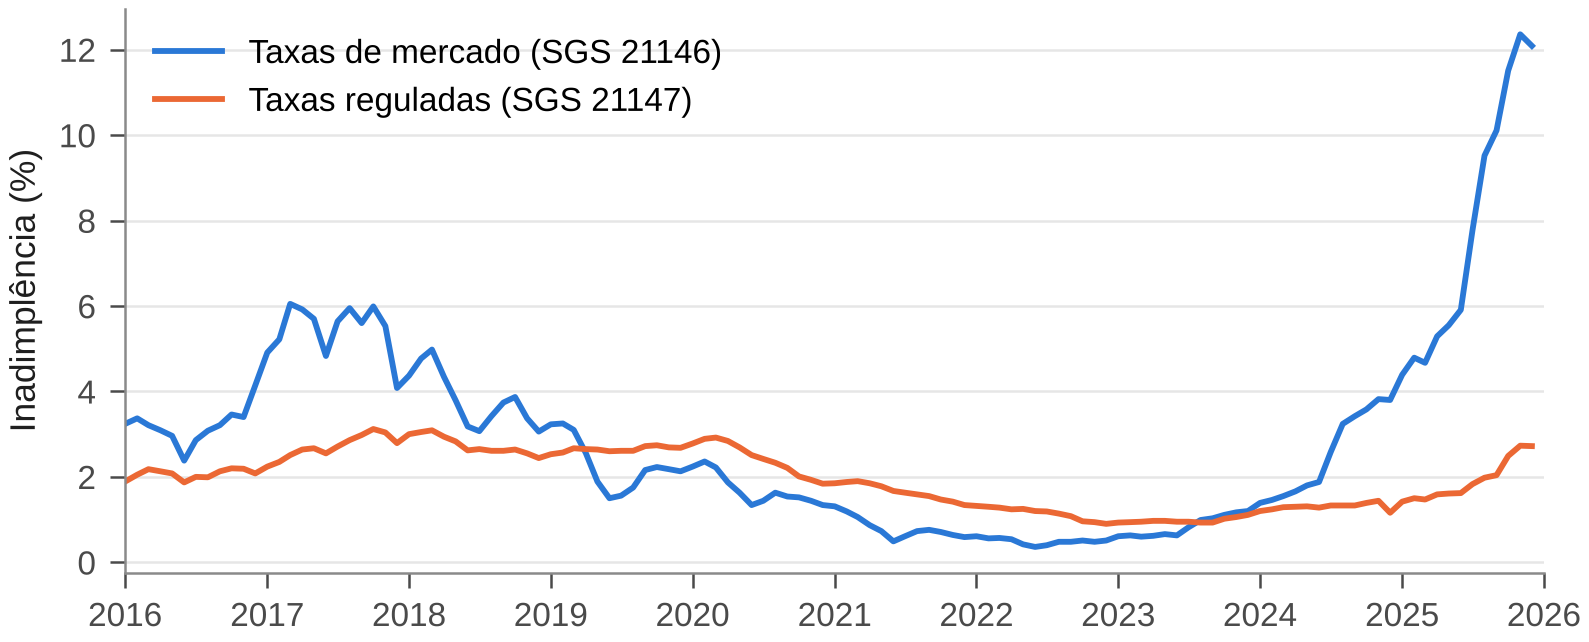
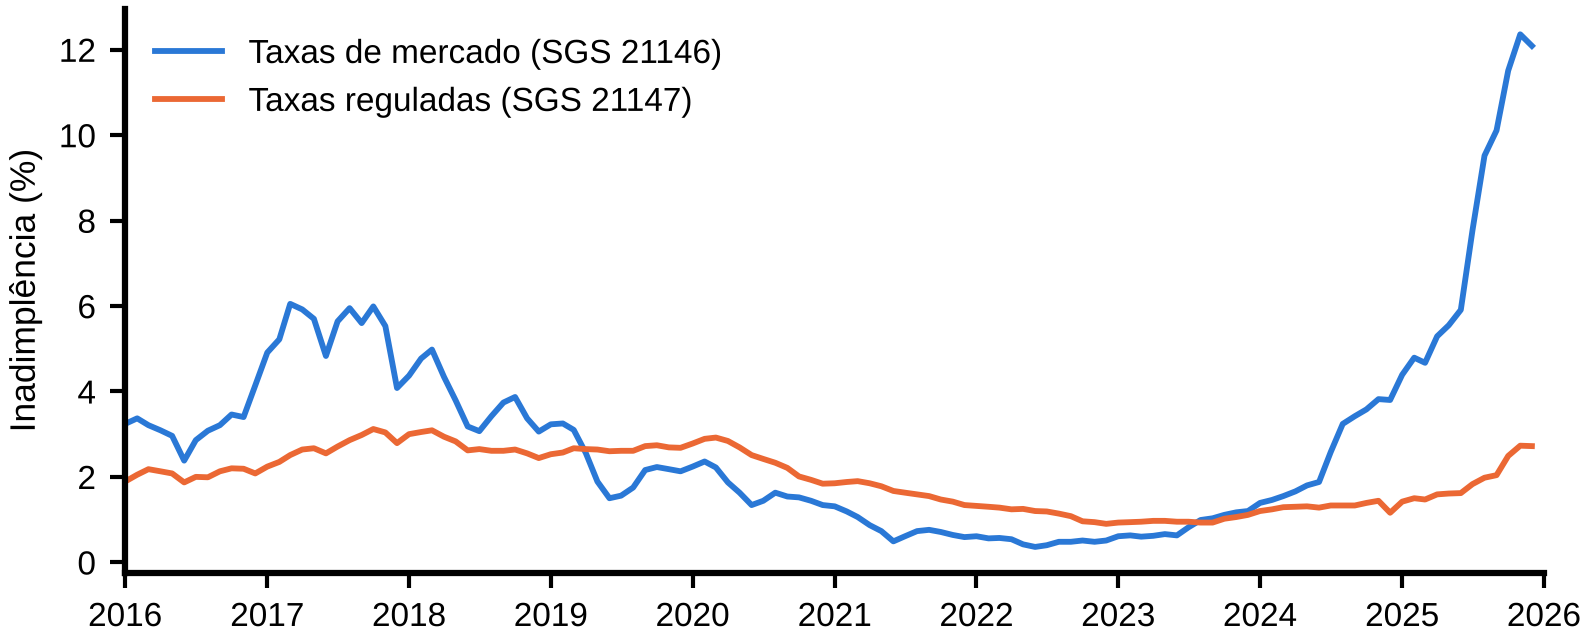
Figuras no padrão do Manual do MBA USP/Esalq, script 09 (ordens do SARIMA) e versões fixadas
- 07_figuras.py: sem linhas de grade, painéis A-F, eixos pretos de 1,5 pt, rótulos em pontos percentuais
- 09_ordens_sarima.py: sensibilidade à ordem do SARIMA (justifica a especificação adotada)
- requirements.txt com as versões exatas usadas no TCC
- docstring do 06 (Tabela 8) e README atualizados

diff --git a/07_figuras.py b/07_figuras.py
@@ -35,10 +35,12 @@ plt.rcParams.update({
     "font.family": ["Arial", "Liberation Sans", "DejaVu Sans"], "font.size": 8.5,
     "axes.titlesize": 9, "axes.titleweight": "normal", "axes.labelsize": 8.5,
     "xtick.labelsize": 8, "ytick.labelsize": 8, "legend.fontsize": 8,
-    "axes.edgecolor": "#8a8a8a", "axes.linewidth": 0.6, "axes.labelcolor": TINTA,
-    "xtick.color": "#4a4a4a", "ytick.color": "#4a4a4a", "xtick.major.width": 0.6, "ytick.major.width": 0.6,
+    # Padrão do Manual do MBA USP/Esalq: sem linhas de grade, sem borda e sem título no gráfico;
+    # eixos principais em linha sólida preta de 1,5 pt; textos em preto.
+    "axes.edgecolor": "black", "axes.linewidth": 1.5, "axes.labelcolor": "black",
+    "xtick.color": "black", "ytick.color": "black", "xtick.major.width": 1.0, "ytick.major.width": 1.0,
     "axes.spines.top": False, "axes.spines.right": False,
-    "axes.grid": True, "axes.grid.axis": "y", "grid.color": "#e6e6e6", "grid.linewidth": 0.6,
+    "axes.grid": False,
     "lines.linewidth": 1.4, "savefig.dpi": 300, "figure.dpi": 100,
     "axes.formatter.use_locale": False,
 })
@@ -52,6 +54,17 @@ def virgula(ax, eixo="y", casas=None):
         s = f"{v:.{casas}f}" if casas is not None else f"{v:g}"
         return s.replace(".", ",").replace("-", "\u2212")
     (ax.yaxis if eixo == "y" else ax.xaxis).set_major_formatter(FuncFormatter(fmt))
+
+
+def painel(ax, letra):
+    """Identifica o painel com letra maiúscula, sem pontuação, no canto superior esquerdo."""
+    ax.text(-0.02, 1.04, letra, transform=ax.transAxes, ha="right", va="bottom",
+            fontsize=9.5, fontweight="bold", color="black")
+
+
+def rotulo(ax, texto):
+    """Nome da série dentro da área do gráfico (não é título do gráfico)."""
+    ax.text(0.02, 0.97, texto, transform=ax.transAxes, ha="left", va="top", fontsize=8, color="black")
 
 
 def formata_datas(ax, meses=12, anos=1):
@@ -79,31 +92,30 @@ salvar(fig, "fig1_series.png")
 
 # Figura 2 - variáveis explicativas (quatro painéis)
 fig, axs = plt.subplots(2, 2, figsize=(LARGURA, 8.6 * CM), sharex=True)
-for a, (c, t) in zip(axs.flat, [("selic", "(a) Meta da taxa Selic (% a.a.)"), ("ipca", "(b) IPCA (variação mensal, %)"),
-                                 ("cambio", "(c) Taxa de câmbio (R\\$/US\\$)"), ("icbr_agro", "(d) IC-Br Agropecuária (índice)")]):
-    a.plot(df.index, df[c], color=AZUL, lw=1.2); a.set_title(t, loc="left", color=TINTA)
+for a, l, (c, t) in zip(axs.flat, "ABCD", [("selic", "Selic (% a.a.)"), ("ipca", "IPCA (% ao mês)"),
+                                           ("cambio", "Câmbio (R\\$/US\\$)"), ("icbr_agro", "IC-Br Agropecuária")]):
+    a.plot(df.index, df[c], color=AZUL, lw=1.2); a.set_ylabel(t); painel(a, l)
     formata_datas(a, anos=2); virgula(a)
 fig.tight_layout(h_pad=1.2, w_pad=1.5)
 salvar(fig, "fig2_explicativas.png")
 
 # Figura 3 - diferenças da série alvo
 fig, axs = plt.subplots(1, 2, figsize=(LARGURA, 5.4 * CM), sharey=False)
-for a, (s, t) in zip(axs, [(y.diff(), "(a) Primeira diferença"), (y.diff().diff(), "(b) Segunda diferença")]):
+for a, l, (s, t) in zip(axs, "AB", [(y.diff(), "1ª diferença (pontos percentuais)"), (y.diff().diff(), "2ª diferença (pontos percentuais)")]):
     a.axhline(0, color=CINZA_CLARO, lw=0.8)
-    a.plot(s, color=AZUL, lw=1.0); a.set_title(t, loc="left", color=TINTA)
+    a.plot(s, color=AZUL, lw=1.0); a.set_ylabel(t); painel(a, l)
     formata_datas(a, anos=2); virgula(a)
-axs[0].set_ylabel("Pontos percentuais")
 fig.tight_layout(w_pad=1.5)
 salvar(fig, "fig3_diferencas.png")
 
 # Figura 4 - previsões de 2025 (seis painéis)
 fig, axs = plt.subplots(3, 2, figsize=(LARGURA, 12.3 * CM), sharex=True, sharey=True)
 hist = y.loc["2023-01-01":]
-for a, m in zip(axs.flat, ["ARIMA", "SARIMA", "SARIMAX", "SARIMAX-Agro", "VAR", "VAR-Agro"]):
+for a, l, m in zip(axs.flat, "ABCDEF", ["ARIMA", "SARIMA", "SARIMAX", "SARIMAX-Agro", "VAR", "VAR-Agro"]):
     a.axvline(idx_2025[0] - pd.Timedelta(days=15), color=CINZA_CLARO, lw=0.8, ls="--")
     a.plot(hist.index, hist, color=CINZA, lw=1.4, label="Observado")
     a.plot(prev_2025[m].index, prev_2025[m], color=AZUL, lw=1.4, marker="o", ms=3, label="Previsto")
-    a.set_title(m, loc="left", color=TINTA)
+    painel(a, l); rotulo(a, m)
     formata_datas(a); a.xaxis.set_minor_locator(mdates.MonthLocator(bymonth=[4, 7, 10]))
     a.yaxis.set_major_locator(MultipleLocator(3)); a.set_ylim(0, 13.5); virgula(a)
 for a in axs[:, 0]:
@@ -125,9 +137,9 @@ for a, h in zip(axs, HORIZONTES):
     for yy, v, m in zip(ypos, vals, ordem):
         a.text(v + max(vals) * 0.04, yy, f"{v:.3f}".replace(".", ","), va="center", fontsize=7.5,
                color=AZUL if m == "SARIMA" else TINTA)
-    a.set_title(f"({'abc'[HORIZONTES.index(h)]}) h = {h} {'mês' if h == 1 else 'meses'}", loc="left", color=TINTA)
-    a.set_xlim(0, max(vals) * 1.38); a.grid(axis="y", visible=False); a.grid(axis="x", visible=True)
-    virgula(a, "x"); a.set_xlabel("MAE (p.p.)")
+    painel(a, "ABC"[HORIZONTES.index(h)])
+    a.set_xlim(0, max(vals) * 1.38)
+    virgula(a, "x"); a.set_xlabel(f"MAE, h = {h} {'mês' if h == 1 else 'meses'}\n(pontos percentuais)")
 axs[0].set_yticks(range(len(ordem))); axs[0].set_yticklabels(ordem)
 for lbl in axs[0].get_yticklabels():
     if lbl.get_text() == "SARIMA":
@@ -139,16 +151,16 @@ salvar(fig, "fig5_origem_movel.png")
 res_best = r_sar.resid.iloc[r_sar.loglikelihood_burn:]
 fig, axs = plt.subplots(1, 3, figsize=(LARGURA, 5.2 * CM))
 axs[0].axhline(0, color=CINZA_CLARO, lw=0.8)
-axs[0].plot(res_best, color=AZUL, lw=1.0); axs[0].set_title("(a) Resíduos", loc="left", color=TINTA)
+axs[0].plot(res_best, color=AZUL, lw=1.0); axs[0].set_ylabel("Resíduo (pontos percentuais)"); painel(axs[0], "A")
 formata_datas(axs[0], anos=2); virgula(axs[0])
 axs[1].hist(res_best, bins=18, color=AZUL, edgecolor="white", linewidth=0.6)
-axs[1].set_title("(b) Distribuição", loc="left", color=TINTA); axs[1].set_ylabel("Frequência"); virgula(axs[1], "x")
+axs[1].set_ylabel("Frequência"); axs[1].set_xlabel("Resíduo (pontos percentuais)"); painel(axs[1], "B"); virgula(axs[1], "x")
 plot_acf(res_best, lags=24, ax=axs[2], color=AZUL, vlines_kwargs={"colors": AZUL, "lw": 1.0},
          markersize=3, title="")
 for coll in axs[2].collections:
     if "Poly" in coll.__class__.__name__:
         coll.set_facecolor(CINZA_CLARO); coll.set_edgecolor("none"); coll.set_alpha(0.7)
-axs[2].set_title("(c) Função de autocorrelação", loc="left", color=TINTA); axs[2].set_xlabel("Defasagem (meses)")
+axs[2].set_ylabel("Autocorrelação"); painel(axs[2], "C"); axs[2].set_xlabel("Defasagem (meses)")
 virgula(axs[2])
 fig.tight_layout(w_pad=1.2)
 salvar(fig, "fig6_residuos.png")

diff --git a/09_ordens_sarima.py b/09_ordens_sarima.py
@@ -1,0 +1,44 @@
+# -*- coding: utf-8 -*-
+"""Etapa 9 — Sensibilidade à ordem do SARIMA: compara a especificação adotada, SARIMA(1,2,1)(1,1,1)12,
+com alternativas de menor ordem de diferenciação ou menos parâmetros (AIC, MAPE em 2025 e MAE na
+validação com origem móvel), justificando a escolha descrita na seção Metodologia.
+
+Parte do código do TCC "Modelos de séries temporais para previsão de inadimplência
+no crédito rural brasileiro" (MBA USP/ESALQ) — Daniel Augusto Moore da Silva.
+Execute a partir da pasta raiz do repositório: python 09_ordens_sarima.py
+"""
+import numpy as np
+from statsmodels.tsa.statespace.sarimax import SARIMAX
+
+from comum import N, diebold_mariano, metricas, salvar_resultados, y
+
+ORDENS = {"(1,2,1)(1,1,1)": ((1, 2, 1), (1, 1, 1, 12)),   # especificação adotada
+          "(1,1,1)(1,1,1)": ((1, 1, 1), (1, 1, 1, 12)),
+          "(0,1,1)(0,1,1)": ((0, 1, 1), (0, 1, 1, 12)),
+          "(1,1,0)(0,1,1)": ((1, 1, 0), (0, 1, 1, 12))}
+HORIZONTES = [1, 3, 6]
+
+
+def ajusta(serie, ordem, sazonal):
+    return SARIMAX(serie, order=ordem, seasonal_order=sazonal,
+                   enforce_stationarity=False, enforce_invertibility=False).fit(disp=False)
+
+
+R = {"ordens_sarima": {}}
+erros = {}
+for nome, (o, s) in ORDENS.items():
+    real = y.iloc[N - 12:]
+    prev = ajusta(y.iloc[:N - 12], o, s).forecast(12)
+    erros[nome] = {h: [float(y.iloc[a + h - 1] - ajusta(y.iloc[:a], o, s).forecast(h).iloc[-1])
+                       for a in range(N - 36, N) if a + h - 1 < N] for h in HORIZONTES}
+    R["ordens_sarima"][nome] = {"AIC": round(float(ajusta(y, o, s).aic), 3),
+                                "MAPE_2025": metricas(real, prev)["MAPE"],
+                                **{f"MAE_h{h}": float(np.mean(np.abs(erros[nome][h]))) for h in HORIZONTES}}
+base = "(1,2,1)(1,1,1)"
+for nome in ORDENS:
+    if nome != base:  # estatística negativa: especificação adotada mais precisa
+        R["ordens_sarima"][nome]["dm"] = {h: diebold_mariano(erros[base][h], erros[nome][h], h) for h in HORIZONTES}
+salvar_resultados(R)
+for nome, v in R["ordens_sarima"].items():
+    print(f"SARIMA{nome}: AIC={v['AIC']:.1f} MAPE 2025={v['MAPE_2025']:.2f}% "
+          + " ".join(f"MAE h={h}: {v[f'MAE_h{h}']:.3f}" for h in HORIZONTES))

diff --git a/executar_tudo.py b/executar_tudo.py
@@ -11,6 +11,7 @@ import os
 RAIZ = os.path.dirname(os.path.abspath(__file__))
 for etapa in ["01_coleta_dados.py", "02_estacionariedade_adf.py", "03_causalidade_granger.py",
               "04_modelos_teste_2025.py", "05_validacao_origem_movel_dm.py",
-              "06_diagnostico_residuos.py", "07_figuras.py", "08_robustez_defasagens.py"]:
+              "06_diagnostico_residuos.py", "07_figuras.py", "08_robustez_defasagens.py",
+              "09_ordens_sarima.py"]:
     print("\n=== Executando", etapa)
     runpy.run_path(os.path.join(RAIZ, etapa), run_name="__main__")

diff --git a/06_diagnostico_residuos.py b/06_diagnostico_residuos.py
@@ -1,5 +1,5 @@
 # -*- coding: utf-8 -*-
-"""Etapa 6 — Diagnóstico dos resíduos dos modelos sazonais: Ljung-Box e Jarque-Bera (Tabela 7, Figura 6).
+"""Etapa 6 — Diagnóstico dos resíduos dos modelos sazonais: Ljung-Box e Jarque-Bera (Tabela 8, Figura 6).
 
 Parte do código do TCC "Modelos de séries temporais para previsão de inadimplência
 no crédito rural brasileiro" (MBA USP/ESALQ) — Daniel Augusto Moore da Silva.

diff --git a/README.md b/README.md
@@ -18,6 +18,7 @@ O código coleta séries mensais do Banco Central do Brasil (jan/2016 a dez/2025
 | Diagnóstico dos resíduos (Ljung-Box e Jarque-Bera) | [`06_diagnostico_residuos.py`](06_diagnostico_residuos.py) | Tabela 8; Figura 6 |
 | Geração das figuras | [`07_figuras.py`](07_figuras.py) | Figuras 1 a 6 |
 | Robustez: variáveis exógenas defasadas em 3, 6 e 12 meses | [`08_robustez_defasagens.py`](08_robustez_defasagens.py) | Tabela 7 |
+| Sensibilidade à ordem do SARIMA | [`09_ordens_sarima.py`](09_ordens_sarima.py) | Seção Metodologia (escolha da especificação) |
 | Funções e dados compartilhados | [`comum.py`](comum.py) | – |
 
 Os resultados numéricos ficam em [`saidas/resultados.json`](saidas/resultados.json) e as figuras em [`saidas/`](saidas/).
@@ -27,7 +28,7 @@ Os resultados numéricos ficam em [`saidas/resultados.json`](saidas/resultados.j
 ```bash
 git clone https://github.com/Dagmoores/tcc-inadimplencia-credito-rural.git
 cd tcc-inadimplencia-credito-rural
-pip install -r requirements.txt
+pip install -r requirements.txt   # versões fixadas, as mesmas usadas no TCC
 python executar_tudo.py        # ou cada script individualmente, na ordem
 ```
 
